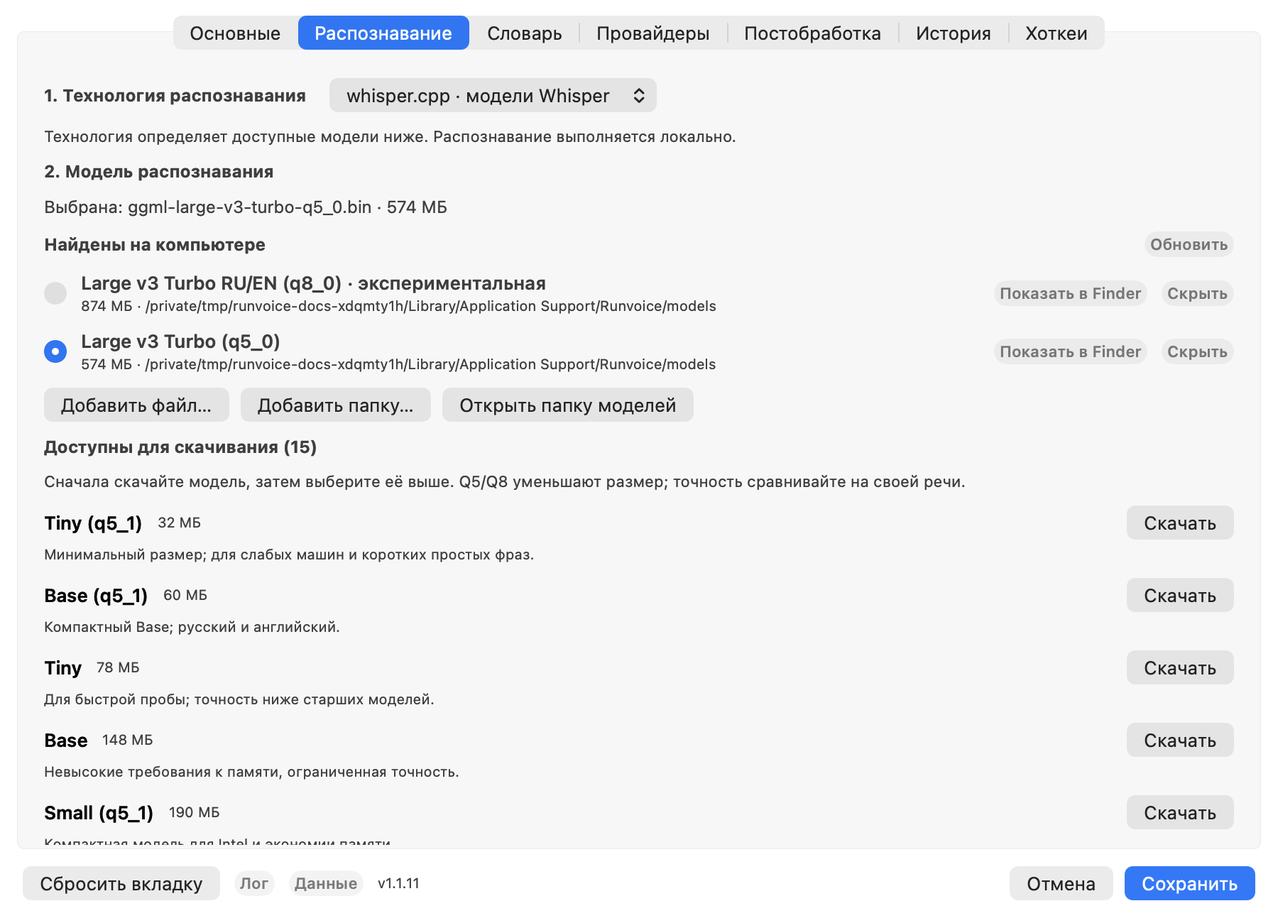
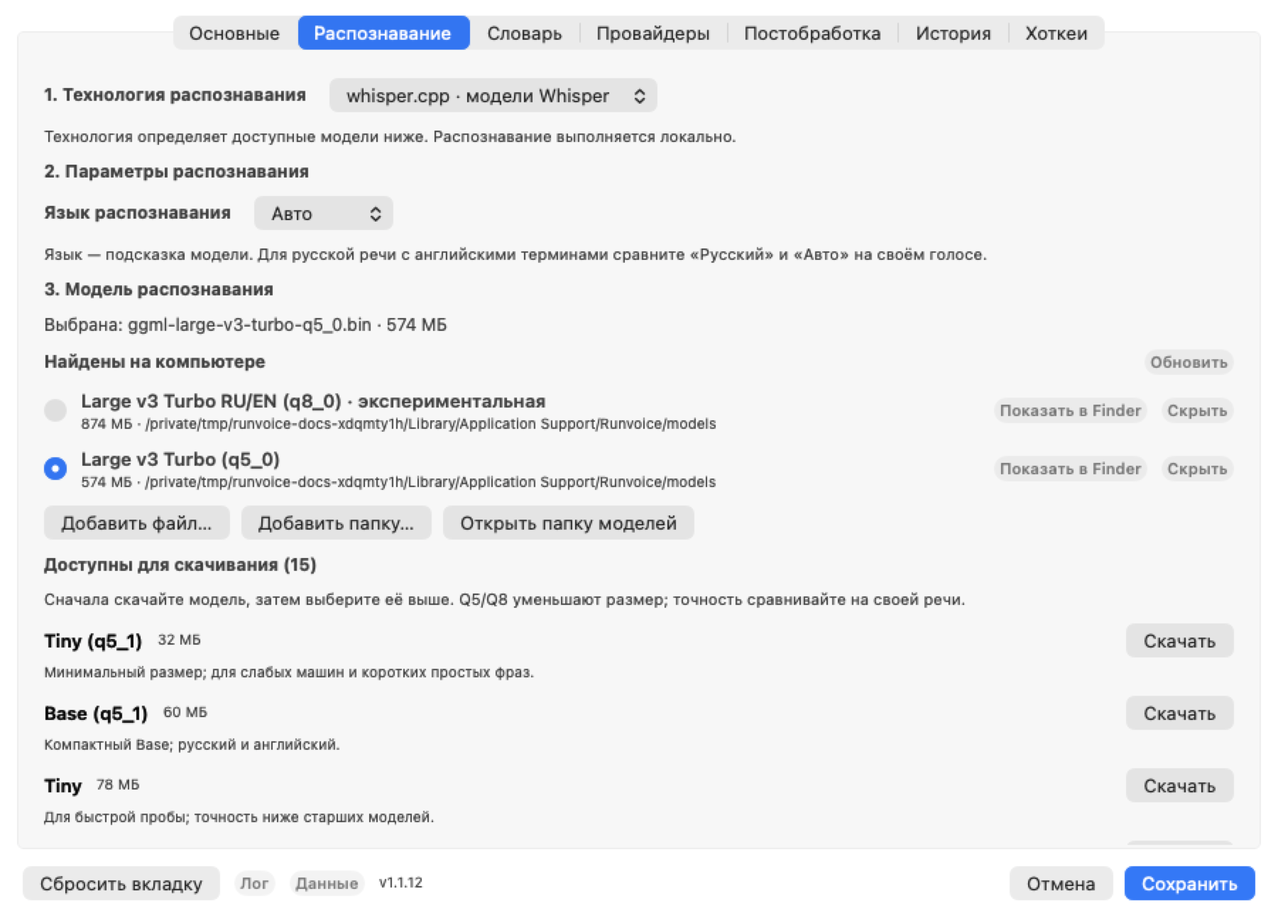
feat: небольшие косметические изменения

diff --git a/tests/recognition/main.swift b/tests/recognition/main.swift
@@ -49,6 +49,27 @@ func runChecks() throws {
     expect(whisperButtons.contains { $0.identifier?.rawValue == "medium-q5_0" }, "Средняя квантованная модель доступна по кнопке")
     expect(!views().contains { ($0 as? NSButton)?.title == FluidModel.parakeet.title }, "В каталоге Whisper нет моделей FluidAudio")
     expect(labels().contains("Экспериментальная"), "Донастройки Whisper явно помечены как экспериментальные")
+    let headings = ["1. Технология распознавания", "2. Параметры распознавания",
+                    "3. Модель распознавания", "4. Предварительное распознавание"]
+    func expectSectionOrder() {
+        expect(labels().filter { headings.contains($0) } == headings,
+               "Блоки идут в порядке: технология, язык, модель, предпросмотр")
+    }
+    expectSectionOrder()
+    expect(labels().contains { $0.contains("Язык — подсказка модели") }, "Whisper объясняет язык как подсказку")
+    let language = views().compactMap { $0 as? NSPopUpButton }
+        .first { $0.accessibilityLabel() == "Язык распознавания" }!
+    let preview = views().compactMap { $0 as? RecognitionPreviewControls }.first!
+    language.selectItem(at: 0)
+    preview.options = RecognitionPreview(enabled: false, lineCount: 7)
+    controller.selectTab("dictionary")
+    let vocabulary = views().compactMap { $0 as? SpeechVocabularyEditor }.first!
+    expect(labels().contains { $0.contains("Whisper —") && $0.contains("Nemotron —")
+        && $0.contains("Parakeet и Phonon —") && $0.contains("при отключённой AI-правке")
+        && $0.contains("для всех моделей") }, "Словарь объясняет три способа применения и общий этап AI-правки")
+    vocabulary.input.string = "Cypress, shared"
+    controller.selectTab("models")
+    expect(vocabulary.input.string == "Cypress, shared", "Переход между вкладками сохраняет незавершённый ввод словаря")
     if !RecognitionTechnology.fluidAudio.isSupported {
         expect(technology.item(at: 1)?.isEnabled == false, "На Intel FluidAudio недоступен")
         controller.window?.orderOut(nil)
@@ -62,6 +83,11 @@ func runChecks() throws {
     }
     try install(.nemotron)
     selectTechnology(1)
+    expectSectionOrder()
+    expect(labels().contains { $0.contains("подсказку потоковой модели") }, "Nemotron имеет отдельное пояснение языка")
+    expect(language.indexOfSelectedItem == 0 && preview.options == RecognitionPreview(enabled: false, lineCount: 7),
+           "Смена технологии сохраняет язык и отключённый предпросмотр с выбранным числом строк")
+    expect(vocabulary.input.string == "Cypress, shared", "Смена технологии сохраняет незавершённый словарь")
     for model in FluidModel.allCases {
         expect(views().contains { ($0 as? NSButton)?.title == model.title }, "Все модели FluidAudio показаны в совместимом каталоге")
     }
@@ -113,6 +139,7 @@ func runChecks() throws {
     spin(0.2)
     expect(SettingsStore.load().whisperModelPath.isEmpty, "Готово сохраняет резерв в черновике, до основного Сохранить")
     selectTechnology(0)
+    expect(labels().contains { $0.contains("Язык — подсказка модели") }, "Возврат к Whisper восстанавливает его пояснение")
     selectTechnology(1)
     expect(button { $0.title == FluidModel.nemotron.title }.state == .on, "Выбор модели сохраняется при смене технологии")
     expect(SettingsStore.load().recognitionTechnology == .whisper, "Черновые переключения не сохраняются автоматически")
@@ -148,11 +175,26 @@ func runChecks() throws {
     selectTechnology(1)
     expect(button { $0.title == FluidModel.nemotron.title }.state == .on, "Скачивание другой модели не меняет выбор")
     expect(button { $0.title == FluidModel.parakeet.title }.isEnabled, "После успешной загрузки выбор модели становится доступен")
+    vocabulary.input.string = "Vitest"
+    for model in FluidModel.allCases {
+        try install(model)
+        button { $0.title == model.title }.performClick(nil)
+        expectSectionOrder()
+        expect(labels().contains { model == .nemotron ? $0.contains("подсказку потоковой модели")
+            : $0.contains("ограничивает алфавит") && $0.contains("English — латиница")
+                && $0.contains("снять это ограничение") }, "Пояснение языка соответствует выбранной модели \(model.rawValue)")
+        expect(language.indexOfSelectedItem == 0 && preview.options == RecognitionPreview(enabled: false, lineCount: 7),
+               "Рекомендация Авто не меняет выбранный Русский или параметры предпросмотра")
+        expect(vocabulary.input.string == "Vitest", "Смена модели не очищает черновик словаря")
+    }
+    language.selectItem(at: 2)
     button { $0.title == FluidModel.parakeet.title }.performClick(nil)
     button { $0.title == "Сохранить" }.performClick(nil)
     let saved = SettingsStore.load()
     expect(saved.recognitionTechnology == .fluidAudio && saved.fluidModel == .parakeet, "Сохранить применяет технологию и модель")
     expect(saved.language == "auto", "Перерисовка каталога сохраняет выбранный язык")
+    expect(!saved.previewEnabled && saved.previewLineCount == 7, "Сохранить записывает параметры отдельного блока предпросмотра")
+    expect(saved.speechVocabulary == ["Cypress", "shared", "Vitest"], "Сохранение включает прежние термины и незавершённый ввод")
     expect(saved.whisperModelPath == second.path, "Основное Сохранить применяет выбранный резерв, включая явный экспериментальный выбор")
     controller.window?.orderOut(nil)
 }

diff --git a/app/UI/SettingsWindow.swift b/app/UI/SettingsWindow.swift
@@ -1022,7 +1022,22 @@ final class SettingsWindow: NSWindowController, NSWindowDelegate {
         addRow(technologyRow)
         addModelsNote("Технология определяет доступные модели ниже. Распознавание выполняется локально.")
         if !recognitionValidationMessage.isEmpty { addModelsNote(recognitionValidationMessage, warning: true) }
-        addRow(sectionLabel("2. Модель распознавания"))
+
+        addRow(sectionLabel("2. Параметры распознавания"))
+        let languageRow = NSStackView(views: [sectionLabel("Язык распознавания"), languagePopup])
+        languageRow.orientation = .horizontal
+        languageRow.alignment = .centerY
+        languageRow.spacing = 16
+        addRow(languageRow)
+        if selectedTechnology == .whisper {
+            addModelsNote("Язык — подсказка модели. Для русской речи с английскими терминами сравните «Русский» и «Авто» на своём голосе.")
+        } else if selectedFluidModel == .nemotron {
+            addModelsNote("Язык задаёт подсказку потоковой модели. Для смешанной русско-английской речи начните с «Авто».")
+        } else {
+            addModelsNote("Здесь выбор языка ограничивает алфавит: «Русский» — кириллица, English — латиница. Для русского с английскими словами выберите «Авто», чтобы снять это ограничение.")
+        }
+
+        addRow(sectionLabel("3. Модель распознавания"))
         if selectedTechnology == .fluidAudio {
             for model in FluidModel.allCases { addRow(fluidModelRow(model)) }
             if !FluidModelStore.installed(selectedFluidModel) {
@@ -1034,16 +1049,6 @@ final class SettingsWindow: NSWindowController, NSWindowDelegate {
         } else {
             addWhisperModels(to: modelsStack)
         }
-        addRow(sectionLabel("3. Параметры распознавания"))
-        let languageRow = NSStackView(views: [sectionLabel("Язык распознавания"), languagePopup])
-        languageRow.orientation = .horizontal
-        languageRow.alignment = .centerY
-        languageRow.spacing = 16
-        addRow(languageRow)
-        addModelsNote(selectedTechnology == .fluidAudio && selectedFluidModel.usesWindowedRecognition
-            ? "Для русского с английскими словами выберите «Авто»: «Русский» ограничивает алфавит кириллицей."
-            : "Для смешанной речи сравните «Русский» и «Авто» на своём голосе.")
-        addRow(previewControls)
         if selectedTechnology == .fluidAudio {
             let backup = NSButton(title: "Настроить резервный Whisper…", target: self,
                                   action: #selector(openRecognitionBackup))
@@ -1051,6 +1056,8 @@ final class SettingsWindow: NSWindowController, NSWindowDelegate {
             backup.setAccessibilityLabel("Резервное распознавание Whisper")
             addRow(backup)
         }
+        addRow(sectionLabel("4. Предварительное распознавание"))
+        addRow(previewControls)
         if let backupModelsStack {
             for view in backupModelsStack.arrangedSubviews {
                 backupModelsStack.removeArrangedSubview(view)

diff --git a/app/UI/SpeechVocabularyEditor.swift b/app/UI/SpeechVocabularyEditor.swift
@@ -124,8 +124,12 @@ final class SpeechVocabularyEditor: NSView, NSTableViewDataSource, NSTableViewDe
     }
 
     private func build() {
-        let note = NSTextField(wrappingLabelWithString:
-            "Подсказки для Whisper и Nemotron; для Parakeet и Phonon — через AI-правку. Одна строка — один термин или фраза, до 80 символов.")
+        let note = NSTextField(wrappingLabelWithString: [
+            "Whisper — термины передаются как подсказка при распознавании.",
+            "Nemotron — термины передаются в словарь потоковой модели.",
+            "Parakeet и Phonon — термины учитываются только при AI-правке; при отключённой AI-правке словарь для них не применяется.",
+            "При включённой AI-правке словарь дополнительно учитывается для всех моделей.",
+        ].joined(separator: "\n"))
         note.font = .systemFont(ofSize: 12)
         note.textColor = .secondaryLabelColor
         countLabel.font = .systemFont(ofSize: 11)
@@ -154,7 +158,8 @@ final class SpeechVocabularyEditor: NSView, NSTableViewDataSource, NSTableViewDe
         scroll.borderType = .bezelBorder
         scroll.documentView = table
 
-        let inputNote = NSTextField(labelWithString: "Добавьте термин или список через запятую либо с новой строки")
+        let inputNote = NSTextField(wrappingLabelWithString:
+            "Одна строка — один термин или фраза, до 80 символов.\nДобавьте термин или список через запятую либо с новой строки")
         inputNote.font = .systemFont(ofSize: 11)
         inputNote.textColor = .secondaryLabelColor
         input.isRichText = false

diff --git a/app/UI/RecognitionPreviewControls.swift b/app/UI/RecognitionPreviewControls.swift
@@ -1,7 +1,7 @@
 import AppKit
 
 final class RecognitionPreviewControls: NSStackView, NSTextFieldDelegate {
-    private let enabledCheck = NSButton(checkboxWithTitle: "Предварительное распознавание", target: nil, action: nil)
+    private let enabledCheck = NSButton(checkboxWithTitle: "Показывать предварительный текст", target: nil, action: nil)
     private let countField = NSTextField(string: "3")
     private let countStepper = NSStepper()
     private let countLabel = NSTextField(labelWithString: "Количество строк в предварительном распознавании")

diff --git a/README.md b/README.md
@@ -271,7 +271,7 @@ codesign -d -r- /Applications/Runvoice.app
 
 **Распознавание**:
 
-- Выбор идёт последовательно: **технология → совместимая модель → параметры**.
+- Блоки расположены последовательно: **технология → параметры языка → совместимая модель → предварительное распознавание**.
   `whisper.cpp` показывает каталог Whisper; `FluidAudio` — Nemotron, Parakeet
   TDT v3 / Ultra / Redux и Phonon-2.5. FluidAudio доступен на Apple Silicon.
 - У каждой модели FluidAudio есть состояние и кнопка «Скачать», «Отменить загрузку»
@@ -282,6 +282,12 @@ codesign -d -r- /Applications/Runvoice.app
   применяется после «Сохранить» со следующей диктовки. Текущая запись сохраняет
   технологию, модель, язык и AI-профиль.
 - **Язык распознавания** — Русский / English / Авто (`ru` / `en` / `auto`), применяется со следующей диктовки.
+  Пояснение под выбором сразу учитывает технологию и выбранную модель: у Whisper
+  и Nemotron язык задаёт подсказку модели; у Parakeet, Ultra, Redux и Phonon
+  «Русский» ограничивает алфавит кириллицей, English — латиницей, «Авто» снимает
+  это ограничение. Для смешанной речи Parakeet/Phonon выбирайте «Авто»;
+  для Whisper сравните «Русский» и «Авто» на своём голосе.
+  Переключение технологии или модели само по себе не меняет выбранный язык.
 - **Предварительное распознавание** — включено по умолчанию. Если отключить,
   в HUD остаются статус, таймер и уровень микрофона; итоговое распознавание и вставка работают.
 - **Количество строк в предварительном распознавании** — от 1 до 10, по умолчанию 3.
@@ -332,6 +338,10 @@ codesign -d -r- /Applications/Runvoice.app
 
 **Словарь**:
 
+- Над списком показано, как применяются термины: Whisper получает подсказку при
+  распознавании, Nemotron — словарь потоковой модели, Parakeet и Phonon — только
+  при AI-правке. Если AI-правка отключена, словарь для Parakeet и Phonon не
+  применяется. При включённой AI-правке термины дополнительно учитываются для всех моделей.
 - Термины показаны редактируемым списком, по одному слову или фразе в строке.
 - Введите один термин или вставьте список через запятые / переносы строк в поле под таблицей и нажмите «Добавить». «Сохранить» также добавляет оставшийся черновик. Выбранные строки удаляются кнопкой «Удалить».
 - До 64 терминов, каждый до 80 символов. Пустые строки и повторы без учёта регистра исключаются; порядок и первое написание сохраняются. При превышении лимита список отклоняется целиком, введённый текст остаётся для исправления.

diff --git a/docs/models.md b/docs/models.md
@@ -1,6 +1,8 @@
 # Выбор моделей распознавания
 
-В «Распознавании» сначала выбирается технология, затем модель.
+В «Распознавании» блоки идут в порядке: технология, параметры языка,
+совместимая модель, предварительное распознавание. Пояснение к языку сразу
+учитывает выбранную технологию и модель; сам выбор языка при переключении сохраняется.
 Каталог whisper.cpp всегда раскрыт: у каждой отсутствующей модели есть кнопка
 «Скачать». Выбрать модель можно после скачивания и проверки. Основной каталог
 содержит только модели выбранной технологии. Резервный Whisper для FluidAudio
@@ -85,14 +87,21 @@ Core ML и поддерживают русский и английский. Ра
 по полной записи. Для Redux выбран CPU-энкодер: он обходит несовместимость
 GPU с LUT2 на части macOS и многоминутную первую компиляцию ANE.
 Phonon-2.5 использует GPU-энкодер. Первый прогрев может быть дольше последующих запусков.
-Словарь у этих моделей учитывается через AI-правку.
+Словарь у Parakeet и Phonon учитывается только через AI-правку; при её отключении
+термины не влияют на распознавание этих моделей. Whisper получает подсказку при
+распознавании, Nemotron — словарь потоковой модели. При включённой AI-правке
+словарь дополнительно учитывается для всех моделей. Эти различия также показаны
+над редактором на вкладке «Словарь».
 
-У Parakeet, Ultra, Redux и Phonon подсказка «Русский» включает фильтр кириллицы,
-который может заменять английские токены. «Авто» отключает это ограничение.
+У Parakeet, Ultra, Redux и Phonon выбор «Русский» включает фильтр кириллицы,
+который может заменять английские токены; English ограничивает алфавит латиницей.
+«Авто» отключает это ограничение.
 Для смешанной речи у этих моделей используйте «Авто».
 [Фильтр алфавита FluidAudio](https://github.com/FluidInference/FluidAudio/blob/main/Documentation/ASR/TokenLanguageFilter.md).
 У Whisper параметр языка устроен иначе: для преимущественно русской речи с
 английскими названиями имеет смысл сравнить «Русский» и «Авто».
+У Nemotron язык задаёт подсказку потоковой модели, а не фильтр алфавита;
+для смешанной русско-английской речи начните с «Авто».
 
 Технология FluidAudio доступна на Apple Silicon с macOS 15+. На Intel используется
 whisper.cpp. Свой файл Whisper можно добавить через «Добавить файл…»;

diff --git a/CHANGELOG.md b/CHANGELOG.md
@@ -10,6 +10,14 @@
 
 ## Не выпущено
 
+### Настройки языка и словаря
+
+- Вкладка «Распознавание» организована в четыре блока: технология, параметры языка, совместимая модель и предварительное распознавание. Резервный Whisper относится к блоку модели.
+- Подсказка языка обновляется при выборе технологии и модели: различает языковые подсказки Whisper/Nemotron и фильтр алфавита Parakeet/Phonon. Выбранный язык не меняется автоматически.
+- На вкладке «Словарь» кратко объяснены подсказка Whisper, словарь Nemotron и применение терминов Parakeet/Phonon только при AI-правке; указано дополнительное использование словаря AI-редактором для всех моделей.
+- Обновлены руководство, сценарии проверки и снимки распознавания и словаря.
+- Пройдены 67 UI-проверок на arm64 и 10 под Rosetta, включая порядок блоков, смену подсказок и сохранность языка, предпросмотра и черновика словаря. Обе архитектуры собраны; подписи приложений, целостность DMG и SHA-256 проверены. Режимы снимков настроек и HUD завершились без ошибок на обеих архитектурах.
+
 ## [1.1.12]
 
 ### Сборка и проверки выпуска

diff --git a/docs/screenshots/README.md b/docs/screenshots/README.md
@@ -29,10 +29,10 @@
 | Вкладка | Файл |
 |---|---|
 | Основные (микрофон, автозапуск, диагностика) | [settings-general.png](settings-general.png) |
-| Распознавание: whisper.cpp → модели Whisper | [settings-models.png](settings-models.png) |
-| Распознавание: FluidAudio → Nemotron, Parakeet v3/Ultra/Redux, Phonon-2.5 | [settings-fluid.png](settings-fluid.png) |
+| Распознавание: whisper.cpp, подсказка языка и модели Whisper | [settings-models.png](settings-models.png) |
+| Распознавание: FluidAudio, подсказка выбранной модели и совместимый каталог | [settings-fluid.png](settings-fluid.png) |
 | Отдельное окно резервного Whisper для FluidAudio | [settings-backup.png](settings-backup.png) |
-| Словарь (редактируемые строки и добавление списка) | [settings-dictionary.png](settings-dictionary.png) |
+| Словарь (пояснение применения для моделей, редактируемые строки и добавление списка) | [settings-dictionary.png](settings-dictionary.png) |
 | Провайдеры (OpenCode / OpenAI / Anthropic, модели, ключи, проверка) | [settings-providers.png](settings-providers.png) |
 | Постобработка (выбор провайдеров, промпты) | [settings-ai.png](settings-ai.png) |
 | Постобработка → улучшение выделенного текста | [settings-improve.png](settings-improve.png) |
